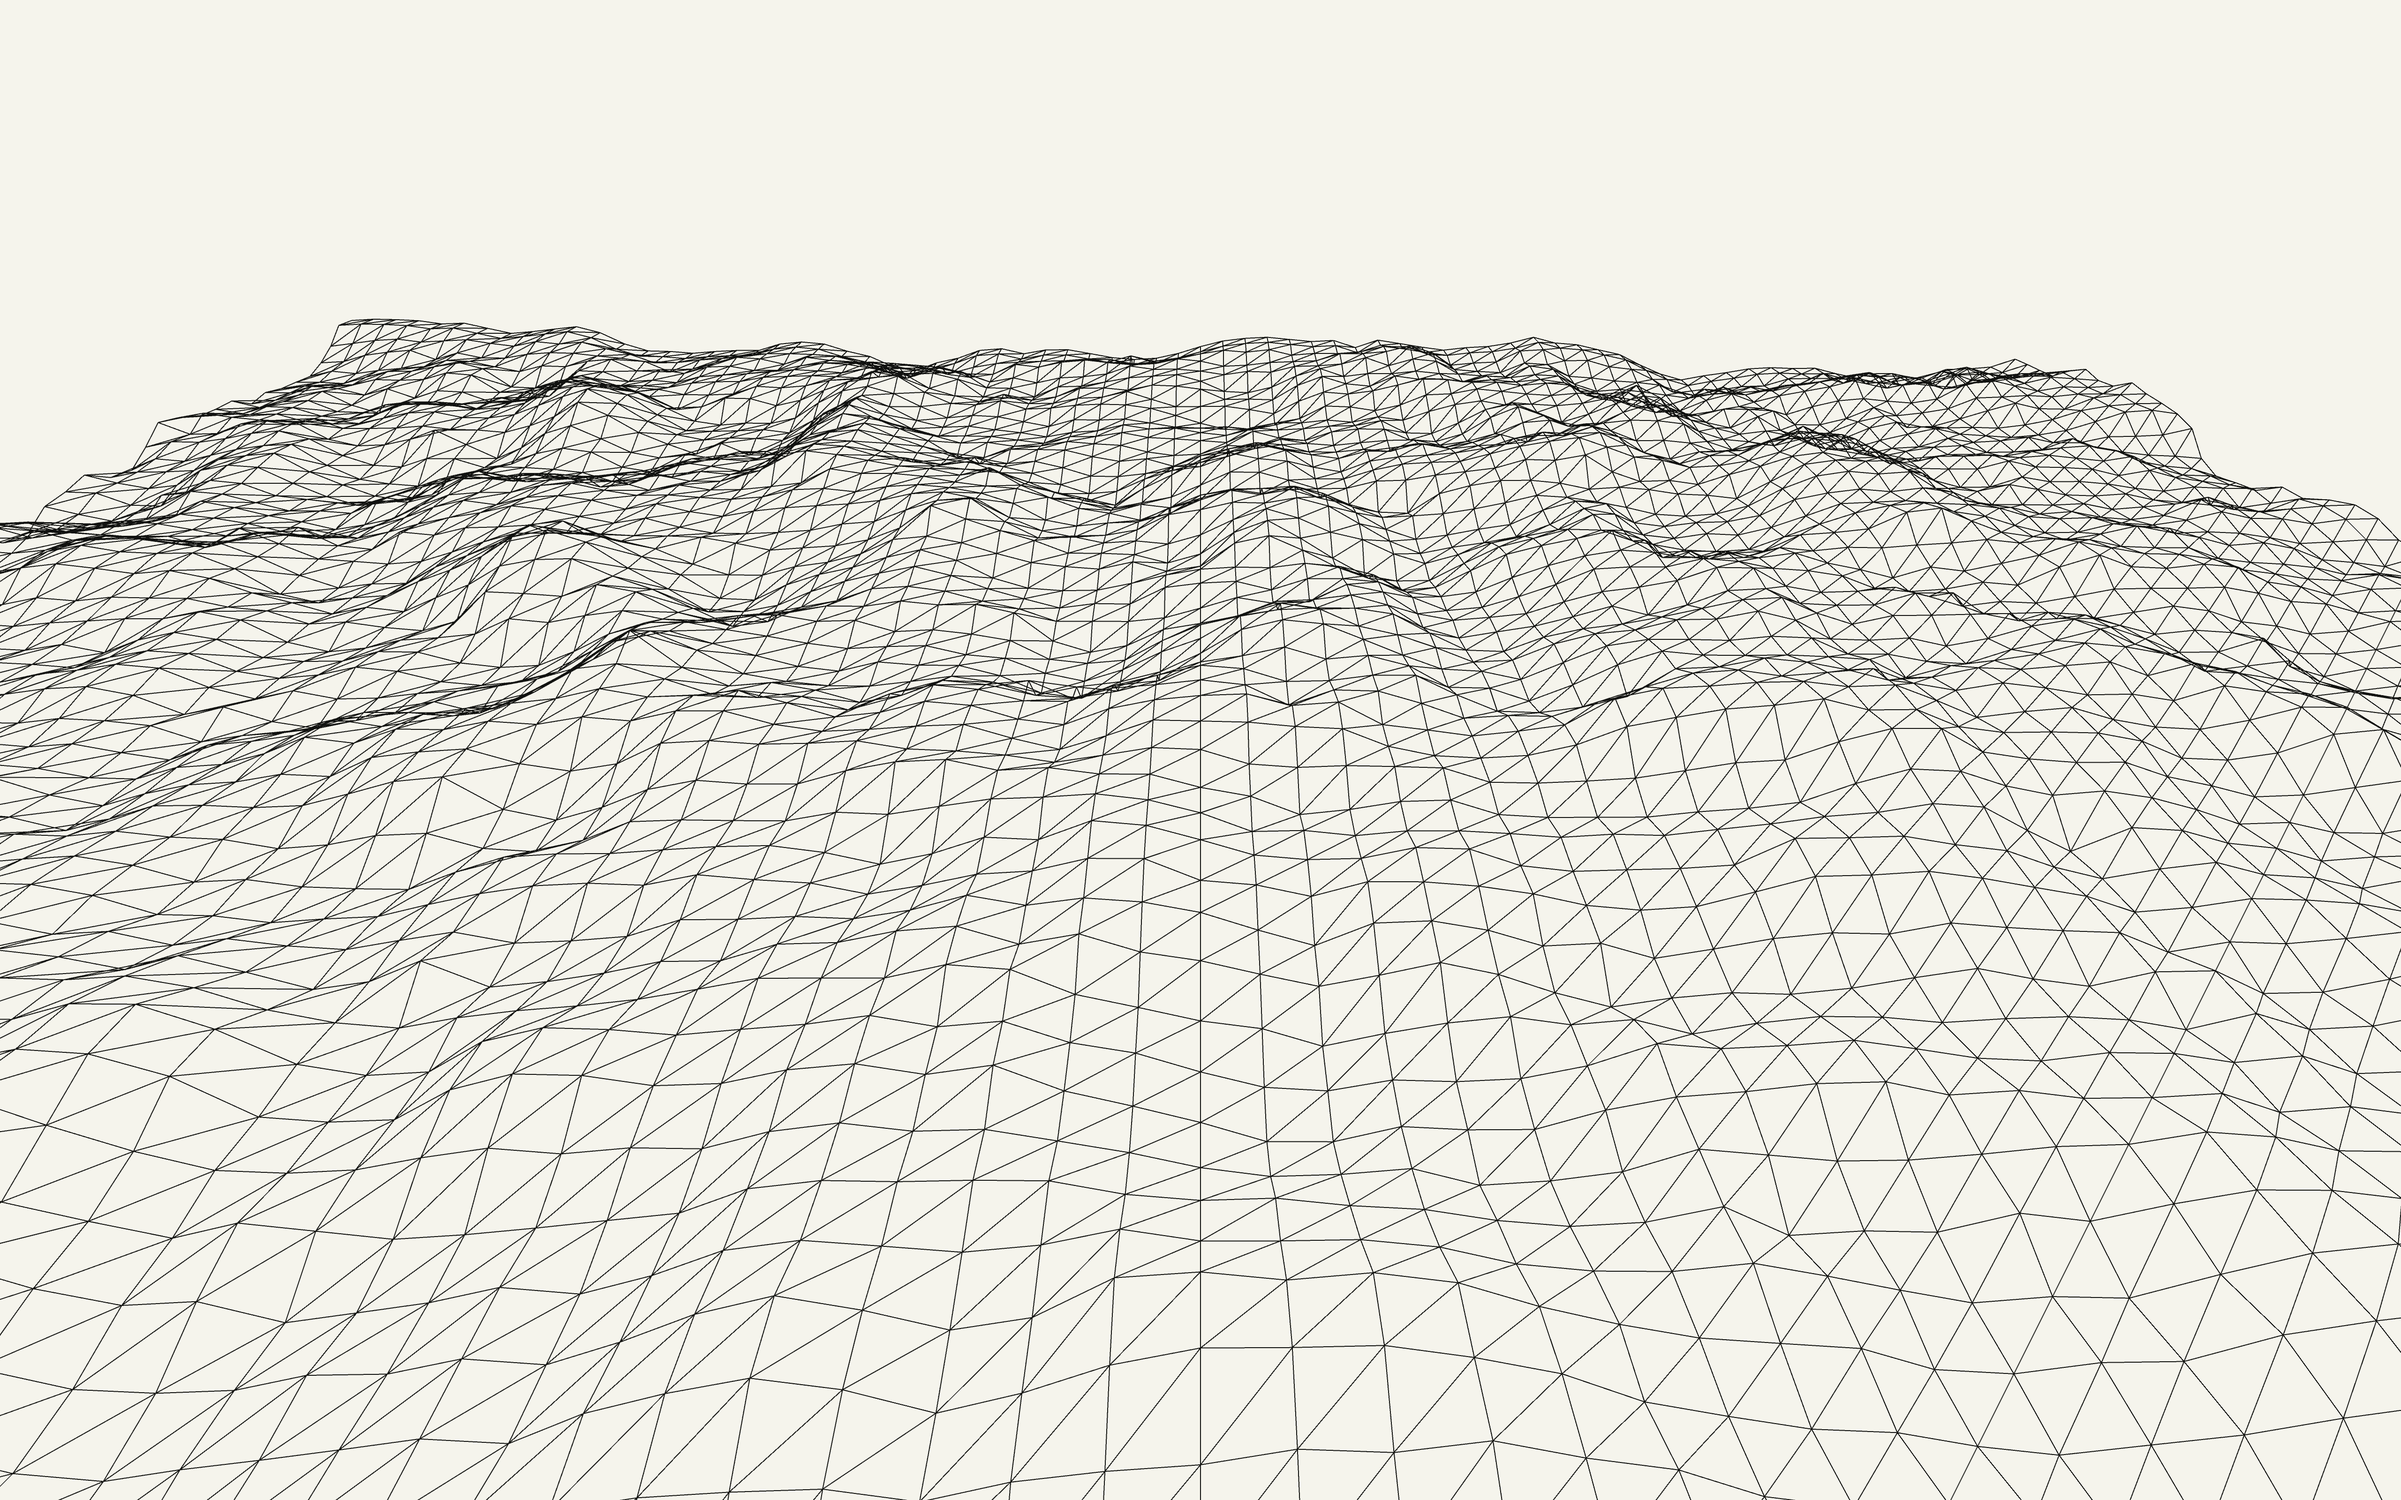
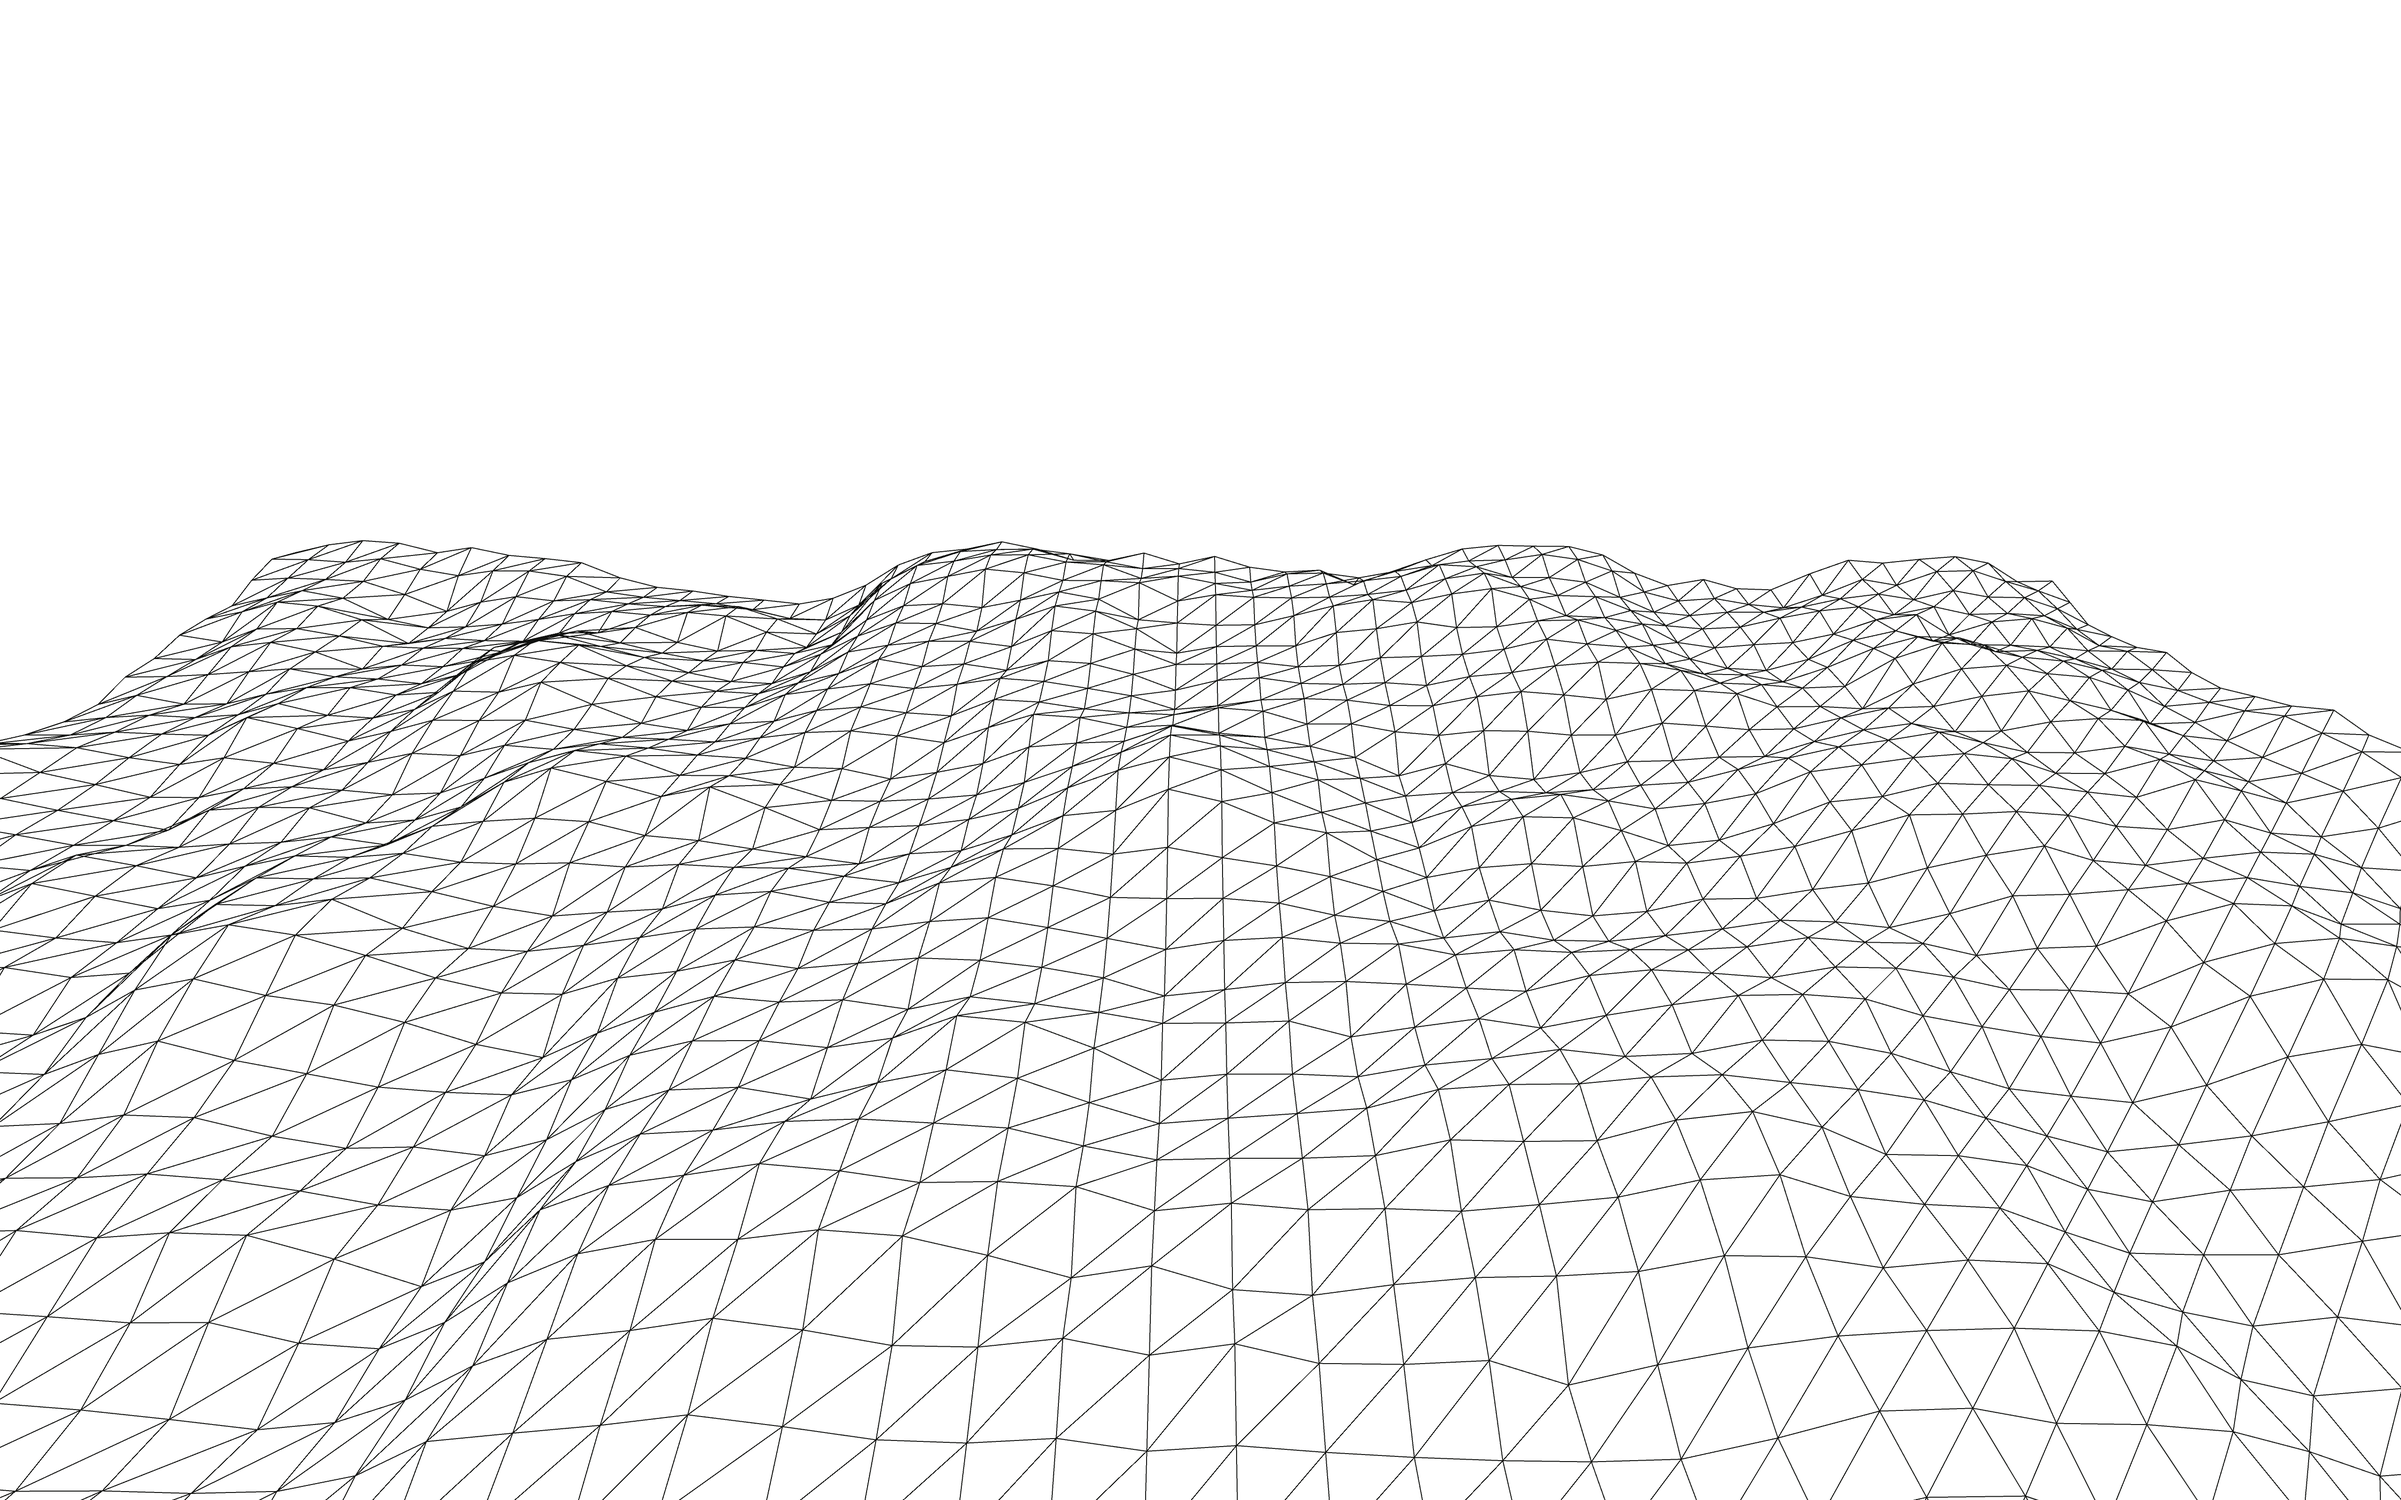
Removed stash to have minimal website to deploy.

diff --git a/public/index.html b/public/index.html
@@ -1,4 +1,4 @@
-<!DOCTYPE html><html lang="no"><head><title>mist</title><meta charset="utf-8"><meta name="viewport" content="width=device-width, initial-scale=1"><link rel="stylesheet" href="fonts/fonts.css"><link rel="stylesheet" href="css/main.css"><script src="js/main.js"></script><link rel="shortcut icon" href="/favicon.ico" type="image/x-icon"><link rel="icon" href="/favicon.ico" type="image/x-icon"><link rel="apple-touch-icon" sizes="57x57" href="/apple-icon-57x57.png"><link rel="apple-touch-icon" sizes="60x60" href="/apple-icon-60x60.png"><link rel="apple-touch-icon" sizes="72x72" href="/apple-icon-72x72.png"><link rel="apple-touch-icon" sizes="76x76" href="/apple-icon-76x76.png"><link rel="apple-touch-icon" sizes="114x114" href="/apple-icon-114x114.png"><link rel="apple-touch-icon" sizes="120x120" href="/apple-icon-120x120.png"><link rel="apple-touch-icon" sizes="144x144" href="/apple-icon-144x144.png"><link rel="apple-touch-icon" sizes="152x152" href="/apple-icon-152x152.png"><link rel="apple-touch-icon" sizes="180x180" href="/apple-icon-180x180.png"><link rel="icon" type="image/png" sizes="192x192" href="/android-icon-192x192.png"><link rel="icon" type="image/png" sizes="32x32" href="/favicon-32x32.png"><link rel="icon" type="image/png" sizes="96x96" href="/favicon-96x96.png"><link rel="icon" type="image/png" sizes="16x16" href="/favicon-16x16.png"><link rel="manifest" href="/manifest.json"><meta name="msapplication-TileColor" content="#F5F4EC"><meta name="msapplication-TileImage" content="/ms-icon-144x144.png"><meta name="theme-color" content="#F5F4EC"></head><body><div id="hero-animation"></div><div class="l-wrap"><div class="section section__hero"><!-- Module: Header--><div class="header"><div class="header--logo"><img src="img/logo.svg"></div><div class="header--nav" id="nav"><ul><li><a href="#projects">projects</a></li><li><a href="#contact">contact</a></li><li><a href="/me">/me</a></li><li><a href="/now">/now</a></li></ul></div></div><!-- Module: Hero--><div class="hero"><div class="hero--text"><div class="l-grid"><div class="l-grid--col-1"></div><div class="l-grid--col-4"><p>Hi 👋🏻, my name is Eivind Lindbråten, and I'm a Norwegian freelancer who loves to play around with code and build stuff. Current area of focus are web and iOS projects — but most of all I like to work on fun, creative and weird projects.</p></div></div></div><div class="hero--arrow"><a href="#projects"><img src="img/arrow.gif"></a></div></div></div><div class="section section__projects" id="projects"><div class="l-grid l-grid__centered"><div class="l-grid--col-2"></div><div class="l-grid--col-2"><!-- Module: Projects Intro--><div class="projects-intro"><p>Shown below are some of the projects I have built, either self initated or for clients.👇🏻</p></div></div></div><div class="l-grid"><div class="l-grid--col-6"><!-- Module--><div class="project"><div class="project--col"><div class="project--illustration"><img src="img/sample.png"></div></div><div class="project--col"><div class="project--title"><h1>tenkekassa.no</h1></div><div class="project--description"><p>Humanistisk Ungdom created a anti prize called "Tenkekassa", highlighting the importance of critical thinking. They wanted a website where people could vote for their favorite (or least favorite) candidate — and I created this site. It's built on Node.js, uses Google's reCATCHPA to prevent voter fraud, and uses Google Sheets as a backend.</p></div><div class="project--button"><a href="#"><div class="button"> <p>read more</p></div></a></div></div></div></div><div class="l-grid--col-6"><!-- Module--><div class="project project__even"><div class="project--col"><div class="project--illustration"><img src="img/sample.png"></div></div><div class="project--col"><div class="project--title"><h1>madebymist.com</h1></div><div class="project--description"><p>I wanted to create a website that exists me and that would be fun to build and a place for me to learn.</p></div><div class="project--button"><a href="#"><div class="button"> <p>read more</p></div></a></div></div></div></div></div></div><div class="section section__contact" id="contact"><div class="l-grid"><div class="l-grid--col-1"></div><div class="l-grid--col-4"><!-- Module: Contact--><div class="contact"><p>If you think we should work together, please contact me.</p><a href="#">eivind@madebymist.com</a></div></div></div></div><!-- Module: Footer--><div class="footer"><ul><li><a href="#">github.com/eivindml</a></li><li><a href="#">twitter.com/eivindml</a></li><li><a href="#">eivind@madebymist.com</a></li></ul></div><script>function scrollToListener(event) {
+<!DOCTYPE html><html lang="no"><head><title>mist</title><meta charset="utf-8"><meta name="viewport" content="width=device-width, initial-scale=1"><link rel="stylesheet" href="fonts/fonts.css"><link rel="stylesheet" href="css/main.css"><script src="js/main.js"></script><link rel="shortcut icon" href="/favicon.ico" type="image/x-icon"><link rel="icon" href="/favicon.ico" type="image/x-icon"><link rel="apple-touch-icon" sizes="57x57" href="/apple-icon-57x57.png"><link rel="apple-touch-icon" sizes="60x60" href="/apple-icon-60x60.png"><link rel="apple-touch-icon" sizes="72x72" href="/apple-icon-72x72.png"><link rel="apple-touch-icon" sizes="76x76" href="/apple-icon-76x76.png"><link rel="apple-touch-icon" sizes="114x114" href="/apple-icon-114x114.png"><link rel="apple-touch-icon" sizes="120x120" href="/apple-icon-120x120.png"><link rel="apple-touch-icon" sizes="144x144" href="/apple-icon-144x144.png"><link rel="apple-touch-icon" sizes="152x152" href="/apple-icon-152x152.png"><link rel="apple-touch-icon" sizes="180x180" href="/apple-icon-180x180.png"><link rel="icon" type="image/png" sizes="192x192" href="/android-icon-192x192.png"><link rel="icon" type="image/png" sizes="32x32" href="/favicon-32x32.png"><link rel="icon" type="image/png" sizes="96x96" href="/favicon-96x96.png"><link rel="icon" type="image/png" sizes="16x16" href="/favicon-16x16.png"><link rel="manifest" href="/manifest.json"><meta name="msapplication-TileColor" content="#F5F4EC"><meta name="msapplication-TileImage" content="/ms-icon-144x144.png"><meta name="theme-color" content="#F5F4EC"></head><body><div id="hero-animation"></div><div class="l-wrap"><div class="section section__hero"><!-- Module: Header--><div class="header"><div class="header--logo"><img src="img/logo.svg"></div></div><!-- Module: Hero--><div class="hero"><div class="hero--text"><div class="l-grid"><div class="l-grid--col-1"></div><div class="l-grid--col-4"><p>Hi 👋🏻, my name is Eivind Lindbråten, and I'm a Norwegian freelancer who loves to play around with code and build stuff. Current area of focus are web and iOS projects — but most of all I like to work on fun, creative and weird projects.</p></div></div></div><div class="hero--arrow"><a href="#contact"><img src="img/arrow.gif"></a></div></div></div><div class="section section__contact" id="contact"><div class="l-grid"><div class="l-grid--col-1"></div><div class="l-grid--col-4"><!-- Module: Contact--><div class="contact"><p>If you think we should work together, please contact me.</p><a href="#">eivind@madebymist.com</a></div></div></div></div><!-- Module: Footer--><div class="footer"><ul><li><a href="#">github.com/eivindml</a></li><li><a href="#">twitter.com/eivindml</a></li><li><a href="#">eivind@madebymist.com</a></li></ul></div><script>function scrollToListener(event) {
   event.preventDefault();
   var attribute = this.getAttribute('href');
   var element = document.getElementById(attribute.substring(1));

diff --git a/public/css/main.css b/public/css/main.css
@@ -221,8 +221,8 @@ select[multiple] {
 #hero-animation {
   position: absolute;
   background-image: url("../img/bg.png");
-  background-size: 140%;
-  background-position: center -150px;
+  background-size: cover;
+  background-position: center center;
   background-repeat: no-repeat;
   width: 100vw;
   height: 100vh;
@@ -236,7 +236,7 @@ select[multiple] {
     position: absolute;
     width: 100vw;
     height: 100vh;
-    background: linear-gradient(transparent, #F5F4EC 100%); }
+    background: linear-gradient(rgba(245, 244, 236, 0) 10%, #F5F4EC 100%); }
 
 body {
   background-color: #F5F4EC;
@@ -364,7 +364,7 @@ a {
   -webkit-box-align: baseline;
       -ms-flex-align: baseline;
           align-items: baseline;
-  padding: 26px 0;
+  padding: 39px 0;
   -webkit-box-pack: center;
       -ms-flex-pack: center;
           justify-content: center; }

diff --git a/src/sass/_base.sass b/src/sass/_base.sass
@@ -11,8 +11,8 @@
 #hero-animation
   position: absolute
   background-image: url("../img/bg.png")
-  background-size: 140%
-  background-position: center -150px
+  background-size: cover
+  background-position: center center
   background-repeat: no-repeat
   width: 100vw
   height: 100vh
@@ -25,7 +25,7 @@
     position: absolute
     width: 100vw
     height: 100vh
-    background: linear-gradient(rgba(0, 0, 0, 0), $lightColor 100%)
+    background: linear-gradient(rgba($lightColor, 0) 10%, $lightColor 100%)
 
 body
   background-color: $lightColor

diff --git a/src/sass/modules/_header.sass b/src/sass/modules/_header.sass
@@ -1,7 +1,7 @@
 .header
   display: flex
   align-items: baseline
-  padding: ($baselineHeight * 2) 0
+  padding: ($baselineHeight * 3) 0
   justify-content: center
 
   &--logo
